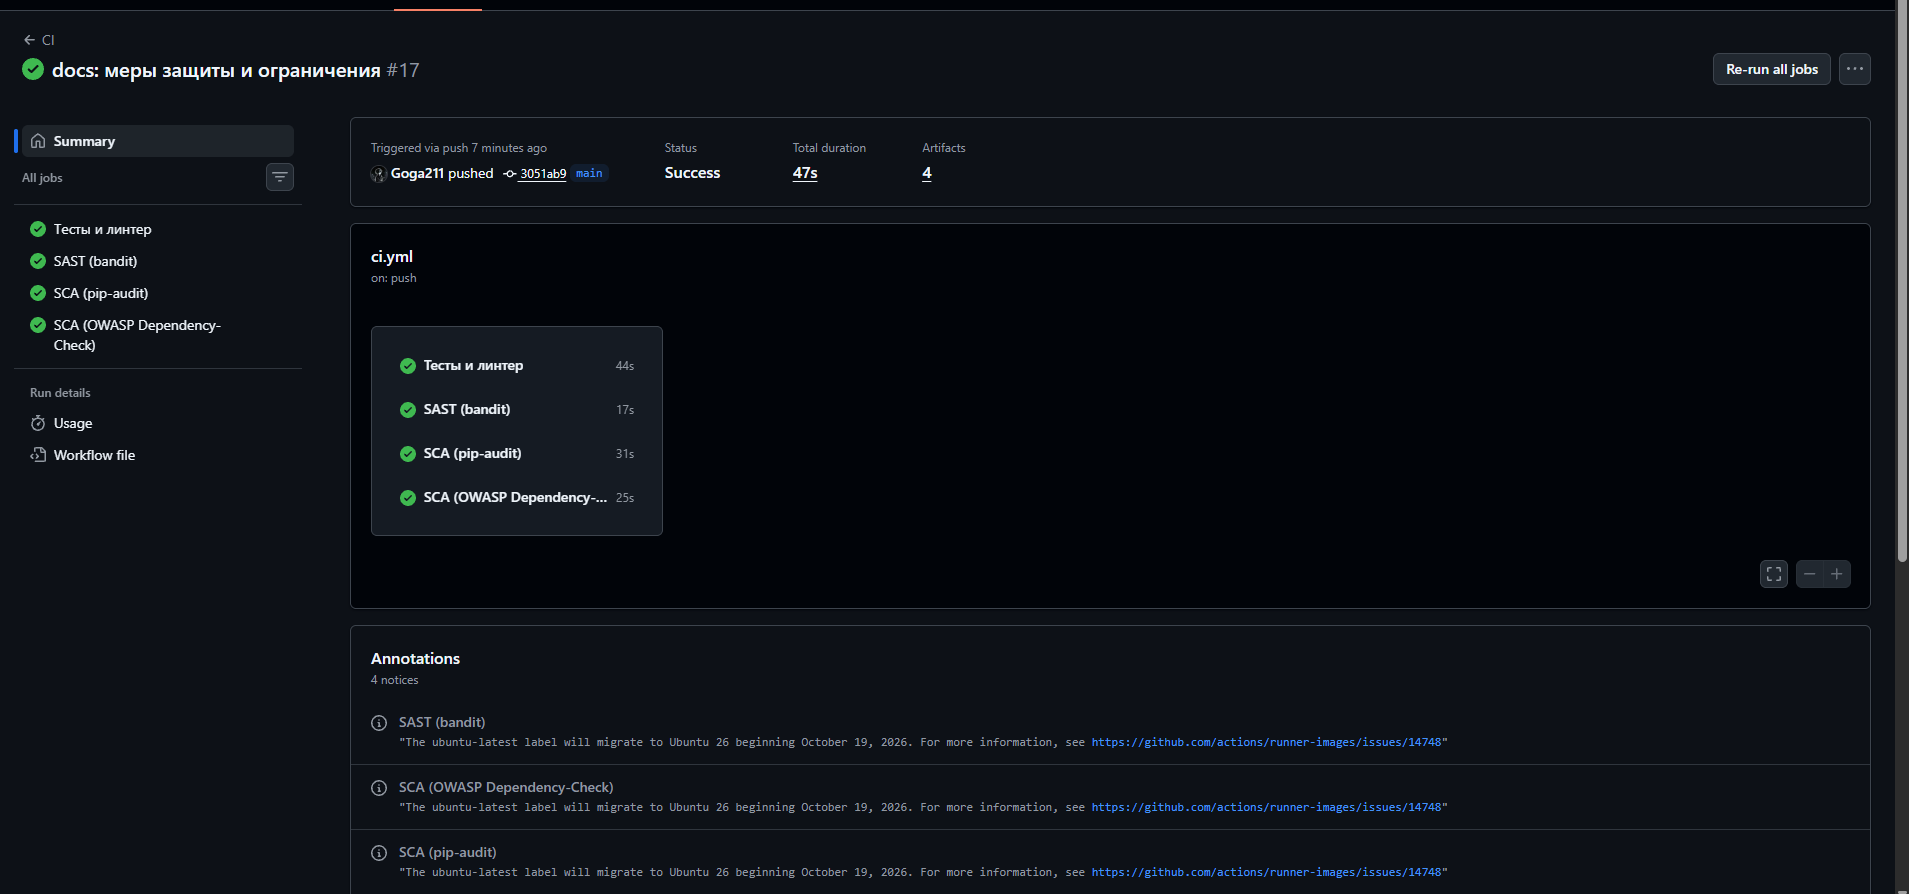
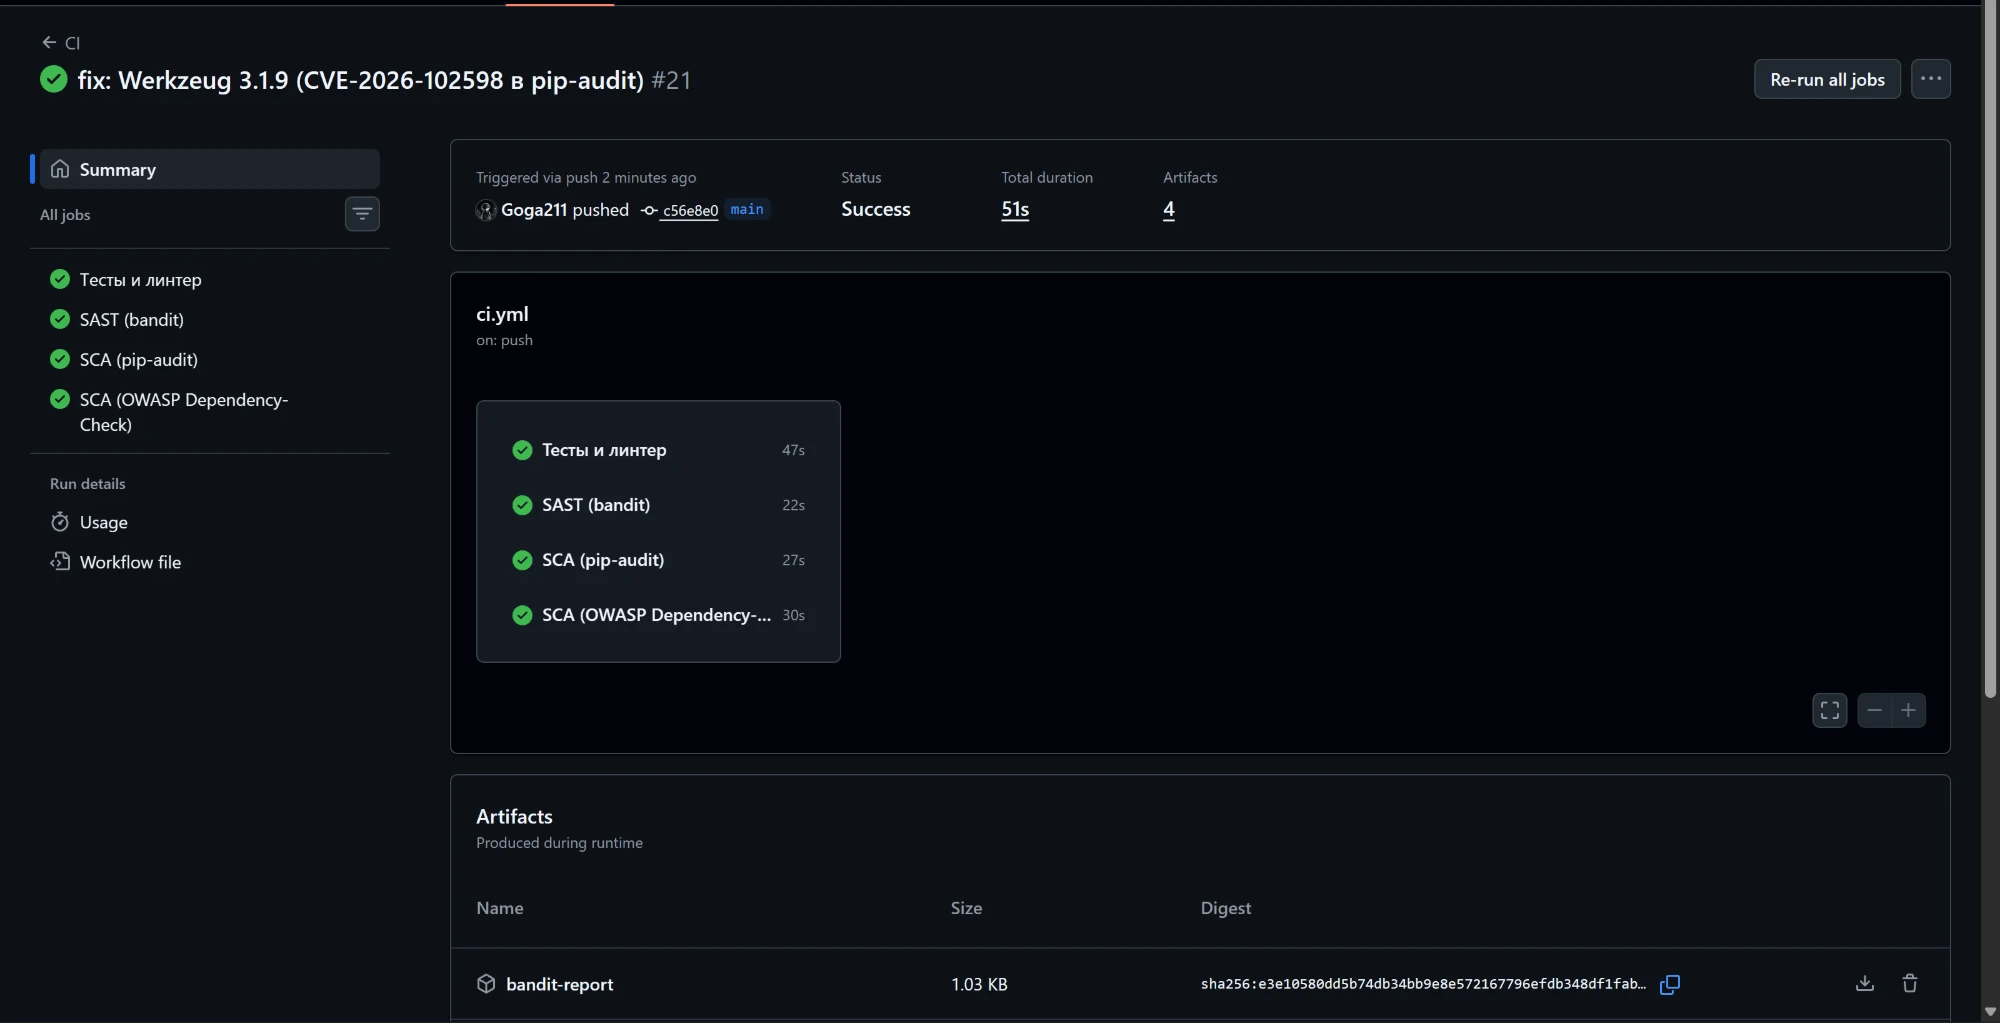
docs: скриншоты CI #21, bandit и Dependency-Check
Заменены скриншоты в docs/screenshots: запуск CI #21 (c56e8e0), отчёты bandit и Dependency-Check с текущего прогона. Подпись в README обновлена на #21.

diff --git a/README.md b/README.md
@@ -199,7 +199,7 @@ GitHub Actions (`.github/workflows/ci.yml`) запускается на кажд
 
 ### Скриншоты отчётов
 
-Запуск CI #17 (коммит `3051ab9`): все четыре job прошли успешно, сохранено 4 артефакта.
+Запуск CI #21 (коммит `c56e8e0`): все четыре job прошли успешно, сохранено 4 артефакта.
 
 ![Запуск CI](docs/screenshots/ci-run.png)
 
